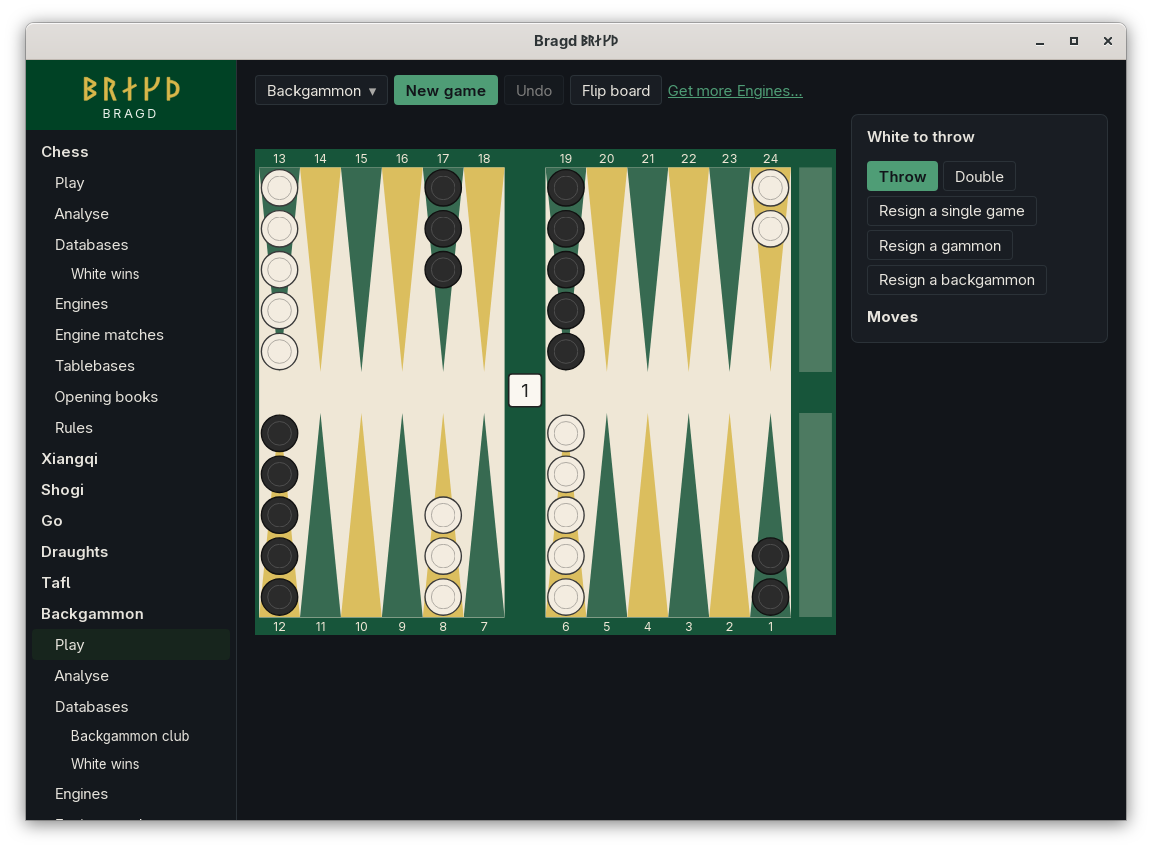
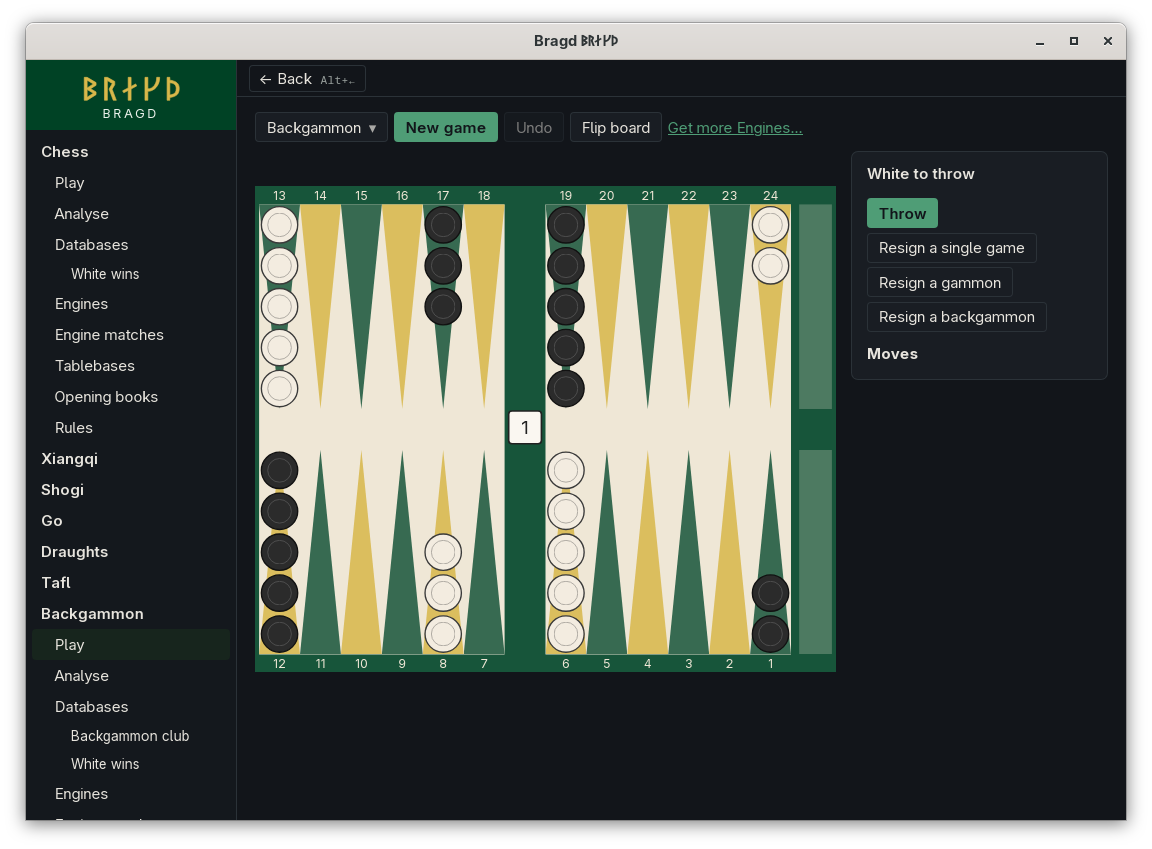
Backgammon offers Double only after the opening throw, as the rules say.

Changed region(s): [[0.2188, 0.0612, 0.9062, 0.7962], [0.75, 0.3675, 0.9062, 0.4287]]

diff --git a/crates/rules-backgammon/src/game.rs b/crates/rules-backgammon/src/game.rs
@@ -483,7 +483,8 @@ impl Game {
         Ok(())
     }
 
-    /// Offers a double. Only on your own turn, and **only before rolling** —
+    /// Offers a double. Only on your own turn, never before the opening roll, and
+    /// **only before rolling** —
     /// which is now a thing the engine has to enforce rather than a thing the
     /// shape of the API guaranteed. Splitting the roll off into its own entry
     /// created the state in between that a late double could sit in, and a
@@ -498,6 +499,10 @@ impl Game {
         }
         if self.pending_roll().is_some() {
             return Err(PlayError::AlreadyRolled);
+        }
+        // Who moves first is not known until the opening throw.
+        if self.is_opening() {
+            return Err(PlayError::BeforeOpening);
         }
         self.cube.offer_by(side)?;
         self.entries.push(Entry::Double);
@@ -643,6 +648,8 @@ pub enum PlayError {
     WrongRoll,
     /// A double as the opening roll, which is one die each and thrown again on a tie.
     OpeningDouble,
+    /// A double offered before the opening roll, which decides who moves first.
+    BeforeOpening,
     Cube(CubeError),
 }
 
@@ -665,6 +672,7 @@ impl fmt::Display for PlayError {
             PlayError::NoRoll => f.write_str("nothing has been rolled yet"),
             PlayError::WrongRoll => f.write_str("that is not the roll on the table"),
             PlayError::OpeningDouble => f.write_str("the opening roll is never a double"),
+            PlayError::BeforeOpening => f.write_str("nobody may double before the opening roll"),
             PlayError::Cube(error) => write!(f, "{error}"),
         }
     }
@@ -792,8 +800,9 @@ mod tests {
     fn there_is_nothing_to_continue_before_the_dice_or_during_a_double() {
         let mut game = Game::new();
         assert_eq!(game.continue_turn(&[]), None, "nothing has been thrown");
+        play(&mut game, "3-1", "8/5 6/5").expect("the opening");
 
-        game.offer_double(Side::White).expect("before rolling");
+        game.offer_double(Side::Black).expect("before rolling");
         assert_eq!(
             game.continue_turn(&[]),
             None,
@@ -803,7 +812,7 @@ mod tests {
         // actually supposed to read.
         assert_eq!(
             game.needs(),
-            Some(Needed::Answer { side: Side::Black }),
+            Some(Needed::Answer { side: Side::White }),
             "and `needs` is what says so"
         );
         assert_eq!(
@@ -811,12 +820,12 @@ mod tests {
             Err(PlayError::DoubleWaiting),
             "nothing may be thrown under an unanswered double"
         );
-        game.take(Side::Black).expect("taken");
+        game.take(Side::White).expect("taken");
 
         game.roll(roll("3-1")).expect("thrown");
         assert!(game.continue_turn(&[]).is_some(), "and now there is");
 
-        game.resign(Side::White, Concession::Single).expect("over");
+        game.resign(Side::Black, Concession::Single).expect("over");
         assert_eq!(game.continue_turn(&[]), None, "the game is over");
     }
 
@@ -983,18 +992,30 @@ mod tests {
         game.roll(Roll::new(6, 6).unwrap()).expect("a double after the opening");
     }
 
+    /// Who moves first is not known until the opening throw, so nobody may double before it.
+    #[test]
+    fn nobody_may_double_before_the_opening_roll() {
+        let mut game = Game::new();
+        assert_eq!(game.offer_double(Side::White), Err(PlayError::BeforeOpening));
+        assert!(game.entries().is_empty(), "and nothing was written down");
+        play(&mut game, "3-1", "8/5 6/5").expect("the opening");
+        game.offer_double(Side::Black).expect("after the opening roll");
+    }
+
     #[test]
     fn a_declined_double_ends_the_game_without_a_move() {
         let mut game = Game::new();
-        game.offer_double(Side::White).expect("White is to move");
+        play(&mut game, "3-1", "8/5 6/5").expect("the opening");
+        let after_opening = *game.position();
+        game.offer_double(Side::Black).expect("Black is to move");
         assert_eq!(
             game.needs(),
-            Some(Needed::Answer { side: Side::Black }),
-            "and it is Black who owes an answer, not the side to move"
+            Some(Needed::Answer { side: Side::White }),
+            "and it is White who owes an answer, not the side to move"
         );
         assert_eq!(
             game.position().to_move(),
-            Side::White,
+            Side::Black,
             "the position still says the doubler is to play, which is why `needs` exists"
         );
         assert!(
@@ -1007,44 +1028,46 @@ mod tests {
             Err(PlayError::DoubleWaiting)
         );
 
-        game.drop(Side::Black).expect("Black drops");
+        game.drop(Side::White).expect("White drops");
         assert_eq!(
             game.outcome(),
             Some(Outcome {
-                winner: Side::White,
+                winner: Side::Black,
                 reason: WinReason::DoubleDeclined,
                 points: 1,
             }),
             "the value before the double, and never a gammon"
         );
-        assert_eq!(game.entries(), &[Entry::Double, Entry::Drop]);
-        assert_eq!(game.position(), &Position::starting(), "no checker moved");
+        assert_eq!(&game.entries()[2..], &[Entry::Double, Entry::Drop]);
+        assert_eq!(game.position(), &after_opening, "no checker moved");
     }
 
     #[test]
     fn only_the_player_to_move_may_double() {
         let mut game = Game::new();
-        assert_eq!(game.offer_double(Side::Black), Err(PlayError::NotYourTurn));
-        game.offer_double(Side::White).expect("White is to move");
+        play(&mut game, "3-1", "8/5 6/5").expect("the opening");
+        assert_eq!(game.offer_double(Side::White), Err(PlayError::NotYourTurn));
+        game.offer_double(Side::Black).expect("Black is to move");
     }
 
     #[test]
     fn resigning_a_gammon_costs_two_points_times_the_cube() {
         let mut game = Game::new();
-        game.offer_double(Side::White).expect("to move");
-        game.take(Side::Black).expect("taken");
-        game.resign(Side::White, Concession::Gammon)
-            .expect("White concedes a gammon");
+        play(&mut game, "3-1", "8/5 6/5").expect("the opening");
+        game.offer_double(Side::Black).expect("to move");
+        game.take(Side::White).expect("taken");
+        game.resign(Side::Black, Concession::Gammon)
+            .expect("Black concedes a gammon");
         assert_eq!(
             game.outcome(),
             Some(Outcome {
-                winner: Side::Black,
+                winner: Side::White,
                 reason: WinReason::Resignation(Concession::Gammon),
                 points: 4,
             })
         );
         assert_eq!(
-            game.resign(Side::Black, Concession::Single),
+            game.resign(Side::White, Concession::Single),
             Err(PlayError::GameOver)
         );
     }

diff --git a/crates/bragd-games/tests/backgammon.rs b/crates/bragd-games/tests/backgammon.rs
@@ -14,6 +14,8 @@ fn a_short_game_replays_with_its_rolls() {
     assert!(!start.throws.contains(&"6-6".to_string()));
     assert!(apply("backgammon", None, &record, "6-6").is_err(), "the rules refuse an opening double");
     assert_eq!(start.to_move.unwrap().name, "White");
+    assert!(!offered(&start, "double"), "nobody doubles before the opening throw");
+    assert!(apply("backgammon", None, &record, "double").is_err(), "and the rules refuse it");
 
     for (roll, turn, mover) in [("3-1", "8/5 6/5", "White"), ("6-5", "24/18 18/13", "Black")] {
         record.push(roll);
@@ -61,15 +63,17 @@ fn an_illegal_turn_and_an_early_roll_are_refused() {
 
 #[test]
 fn a_double_is_answered_before_anything_else() {
-    let state = replay("backgammon", None, &["double"]).unwrap();
-    assert_eq!(state.to_move.unwrap().name, "Black");
+    let opening = ["3-1", "8/5 6/5"];
+    let with = |more: &[&'static str]| [&opening[..], more].concat();
+    let state = replay("backgammon", None, &with(&["double"])).unwrap();
+    assert_eq!(state.to_move.unwrap().name, "White");
     let wires: Vec<_> = state.moves.iter().map(|m| m.wire.as_str()).collect();
     assert_eq!(wires, ["take", "drop"]);
-    let taken = replay("backgammon", None, &["double", "take"]).unwrap();
+    let taken = replay("backgammon", None, &with(&["double", "take"])).unwrap();
     let cube = taken.board.cube.unwrap();
-    assert_eq!((cube.value, cube.owner), (2, Some(1)));
-    let dropped = replay("backgammon", None, &["double", "drop"]).unwrap();
-    assert_eq!(dropped.outcome.unwrap().winner.unwrap().name, "White");
+    assert_eq!((cube.value, cube.owner), (2, Some(0)));
+    let dropped = replay("backgammon", None, &with(&["double", "drop"])).unwrap();
+    assert_eq!(dropped.outcome.unwrap().winner.unwrap().name, "Black");
 }
 
 #[test]

diff --git a/crates/rules-backgammon/tests/properties.rs b/crates/rules-backgammon/tests/properties.rs
@@ -464,9 +464,13 @@ fn a_game_with_the_cube_in_it_replays_too() {
     // silently wrong. This is what checks it.
     let mut game = Game::new();
     let mut rng = Rng(4242);
-    game.offer_double(Side::White).expect("White is to move");
-    game.take(Side::Black).expect("Black takes");
-    // An odd number of turns, so that it comes round to Black — who now holds
+    // Nobody may double before the opening roll, so White plays it first.
+    let roll = rng.roll(&game);
+    let turns = game.turns_for(roll);
+    game.play(roll, &turns[rng.below(turns.len())].clone()).expect("legal");
+    game.offer_double(Side::Black).expect("Black is to move");
+    game.take(Side::White).expect("White takes");
+    // An odd number of turns, so that it comes round to White — who now holds
     // the cube and is the only one who may double next.
     for _ in 0..9 {
         let roll = rng.roll(&game);
@@ -474,11 +478,11 @@ fn a_game_with_the_cube_in_it_replays_too() {
         let turn = turns[rng.below(turns.len())].clone();
         game.play(roll, &turn).expect("legal");
     }
-    game.offer_double(Side::Black).expect("Black owns the cube");
-    game.take(Side::White).expect("White takes");
+    game.offer_double(Side::White).expect("White owns the cube");
+    game.take(Side::Black).expect("Black takes");
 
     assert_eq!(game.cube().value(), 4);
-    assert_eq!(game.cube().owner(), Some(Side::White));
+    assert_eq!(game.cube().owner(), Some(Side::Black));
 
     let replayed =
         Game::replay(*game.initial_position(), game.entries()).expect("the record replays");

diff --git a/crates/bragd-games/src/backgammon.rs b/crates/bragd-games/src/backgammon.rs
@@ -170,7 +170,7 @@ fn state(game: &Game, part: &[Play]) -> State {
         None => (Awaiting::Nothing, Vec::new(), Vec::new()),
         Some(Needed::Roll { side }) => {
             let mut moves = Vec::new();
-            if cube.may_double(side) {
+            if cube.may_double(side) && !game.is_opening() {
                 moves.push(LegalMove::plain("double".to_string()));
             }
             // The opening roll is one die each, thrown again on a tie: never a double.

diff --git a/docs/play/backgammon.md b/docs/play/backgammon.md
@@ -25,7 +25,7 @@ Nothing to play against yourself. Against an Engine: GNU Backgammon, installed o
 | What you want | What you do |
 |---|---|
 | Throw the dice | **Throw**, under the turn line. The opening throw is one die for each Side: the higher die moves first and plays both dice, and a tie is thrown again, so the first turn is never a double. A double is four dice |
-| Double | **Double**, before you throw. It shows only when you may double |
+| Double | **Double**, before you throw. It shows only when you may double: you hold the cube or it is in the middle, and the opening throw is over |
 | Answer a double | **Take** keeps playing at twice the stake. **Drop** gives up the Game at the stake before the double |
 | Move a checker | Click its point, then a marked point (or *off*), or drag it there. The checker moves at once and uses one die, which turns grey. Move the next the same way; when the dice are used, the turn is played |
 | Take a checker back | **Undo**, before the last die is used. After the turn is played, Undo takes back the whole turn |

diff --git a/changelog.d/batch-q6-double.md b/changelog.d/batch-q6-double.md
@@ -1,0 +1,1 @@
+| **Double waits for the opening throw in backgammon.** Nobody may double before the first throw, since it decides who moves first, so **Double** shows only after it. | [Backgammon](play/backgammon.md#controls) |
